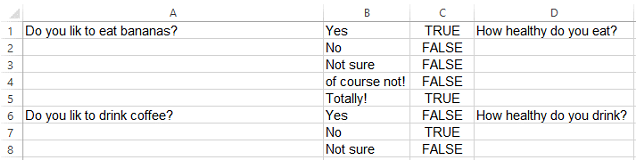
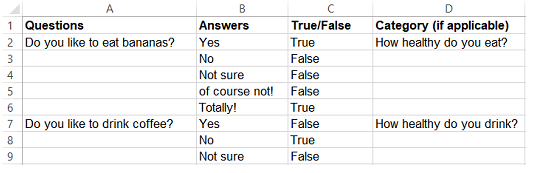
fixed bugs

Changed region(s): [[0.0, 0.0301, 1.0, 0.9639], [0.03, 0.0301, 0.0599, 0.0602]]

diff --git a/Frontend/src/pages/Testee/MyTest/components/AllSteps/QuestionStep.js b/Frontend/src/pages/Testee/MyTest/components/AllSteps/QuestionStep.js
@@ -397,25 +397,32 @@ function QuestionStep(props) {
         const worksheet = workbook.Sheets[sheetName];
         const xlData = XLSX.utils.sheet_to_json(worksheet, { header: 1 });
         xlData.forEach((row, index) => {
-          if (row[0]  && row[1] && row[2] && row[3]) {
-            questionCounter++;
-            props.obj.mainObjectAdder({ target: { id: `question${questionCounter}`, value: row[0] } }, "questions", `question${questionCounter}`, 'question');
-            props.obj.mainObjectAdder({ target: { id: `question${questionCounter}`, value: row[3] } }, "questions", `question${questionCounter}`, 'categoryName');
-            props.obj.mainObjectAdder({ target: { id: `question${questionCounter}-answer${answerCounter}`, value: row[1] } }, "questions", `question${questionCounter}-answer${answerCounter}`, 'answer');
-            props.obj.mainObjectAdder({ target: { id: `question${questionCounter}-answer${answerCounter}`, value: row[2] == true ? 10 : 0 } }, "questions", `question${questionCounter}-answer${answerCounter}`, 'point');
-            answerCounter++;
-          }
-          else if (row[0] == undefined && row[1] && row[2] && row[3]) {
-          
-            props.obj.mainObjectAdder({ target: { id: `question${questionCounter}-answer${answerCounter}`, value: row[1] } }, "questions", `question${questionCounter}-answer${answerCounter}`, 'answer');
-            props.obj.mainObjectAdder({ target: { id: `question${questionCounter}-answer${answerCounter}`, value: row[2] == true ? 10 : 0 } }, "questions", `question${questionCounter}-answer${answerCounter}`, 'point');
-            answerCounter++;
-          }
-          else{
-            showToastMessage("Invalid Excel Format", "red", 2);
+          // console.log(!!(row[0] && row[1] && row[2] && row[3]));
+          // console.log(row[0], row[1], row[2], row[3]);
+          // console.log(row[0] == undefined && row[1] && row[2  ] && row[3]);
+          if (row[2]?.toLowerCase() == 'true' || row[2]?.toLowerCase() == 'false') {
+            if (!!(row[0] && row[1] && row[2] && row[3])) {
+              console.log('row', row);
+              questionCounter++;
+              props.obj.mainObjectAdder({ target: { id: `question${questionCounter}`, value: row[0] } }, "questions", `question${questionCounter}`, 'question');
+              props.obj.mainObjectAdder({ target: { id: `question${questionCounter}`, value: row[3] } }, "questions", `question${questionCounter}`, 'categoryName');
+              props.obj.mainObjectAdder({ target: { id: `question${questionCounter}-answer${answerCounter}`, value: row[1] } }, "questions", `question${questionCounter}-answer${answerCounter}`, 'answer');
+              props.obj.mainObjectAdder({ target: { id: `question${questionCounter}-answer${answerCounter}`, value: row[2]?.toLowerCase() == 'true' ? 10 : 0 } }, "questions", `question${questionCounter}-answer${answerCounter}`, 'point');
+              answerCounter++;
+            }
+            else if (!!(row[0] == undefined && row[1] && (row[2]?.toLowerCase() == 'true' || row[2]?.toLowerCase() == 'false'))) {
+              console.log('ans row', row);
+              props.obj.mainObjectAdder({ target: { id: `question${questionCounter}-answer${answerCounter}`, value: row[1] } }, "questions", `question${questionCounter}-answer${answerCounter}`, 'answer');
+              props.obj.mainObjectAdder({ target: { id: `question${questionCounter}-answer${answerCounter}`, value: row[2]?.toLowerCase() == 'true' ? 10 : 0 } }, "questions", `question${questionCounter}-answer${answerCounter}`, 'point');
+              answerCounter++;
+            }
+            else {
+              showToastMessage("Invalid Excel Format", "red", 2);
+            }
           }
         });
       } catch (error) {
+        console.log(error);
         showToastMessage("Error reading the Excel file", "red", 2);
       }
     };
@@ -1062,21 +1069,21 @@ function QuestionStep(props) {
             {
               showExampleModal &&
               <Modal show={showExampleModal} onHide={handleCloseExampleModal} animation={false}>
-              <Modal.Header closeButton>
-                <Modal.Title>Import Mailing List</Modal.Title>
-              </Modal.Header>
-              <Modal.Body>
-                <label htmlFor={`question${questionCounter}`}>Supported File Structure:</label>
-                <img src='/ques.png' alt='question structure' />
-                <input
-                  type="file"
-                  id={`question${questionCounter}`}
-                  onChange={(e) => {
-                    setSelectedFile(e.target.files[0]);
-                  }}
-                />
-                <button style={{ position: 'relative', right: '20px' }} onClick={handleUpload} disabled={selectedFile == null}>Upload Questions from excel</button>
-              </Modal.Body>
+                <Modal.Header closeButton>
+                  <Modal.Title>Import Mailing List</Modal.Title>
+                </Modal.Header>
+                <Modal.Body>
+                  <label htmlFor={`question${questionCounter}`}>Supported File Structure:</label>
+                  <img src='/ques.png' alt='question structure' />
+                  <input
+                    type="file"
+                    id={`question${questionCounter}`}
+                    onChange={(e) => {
+                      setSelectedFile(e.target.files[0]);
+                    }}
+                  />
+                  <button style={{ position: 'relative', right: '20px' }} onClick={handleUpload} disabled={selectedFile == null}>Upload Questions from excel</button>
+                </Modal.Body>
               </Modal>
             }
             <button onClick={() => setShowExampleModal(true)}>Import Questions from excel</button>

diff --git a/Frontend/src/pages/user/updateUser.js b/Frontend/src/pages/user/updateUser.js
@@ -58,34 +58,34 @@ function UpdateUser() {
         <div class="Get_sec" style={{ height: '100vh' }}>
             <h1>User Profile</h1>
             <div class="container">
-                <div class="row gutters">
-                    <div class="col-xl-12 col-lg-12 col-md-12 col-sm-12 col-12">
-                        <div class="card h-100">
+                <div class="row gutters justify-content-center align-items-center">
+                    <div class="col-xl-6 col-lg-6 col-md-6 col-sm-6 col-6">
+                        <div class="card h-100 justify-content-center align-items-center">
                             <div class="card-body">
                                 <div class="row gutters">
-                                    <div class="col-xl-12 col-lg-12 col-md-12 col-sm-12 col-12">
-                                        <h6 class="mb-2 text-primary">Personal Details</h6>
+                                    <div class="col-xl-12 col-lg-12 col-md-12 col-sm-12 col-12 my-2">
+                                        <h3 class="mb-2 text-primary">Personal Details</h3>
                                     </div>
                                     <div class="col-xl-6 col-lg-6 col-md-6 col-sm-6 col-12">
-                                        <div class="form-group">
+                                        <div class="form-group my-2">
                                             <label for="fullName">Full Name</label>
                                             <input type="text" class="form-control" id="fullName" placeholder="Enter full name" value={userData.firstName} onChange={(e) => { setUserData({ ...userData, firstName: e.target.value }); setUpdateData(true) }} />
                                         </div>
                                     </div>
                                     <div class="col-xl-6 col-lg-6 col-md-6 col-sm-6 col-12">
-                                        <div class="form-group">
+                                        <div class="form-group my-2">
                                             <label for="fullName">Company Name</label>
                                             <input type="text" class="form-control" id="fullName" placeholder="Enter Company Name" value={userData.lastName} onChange={(e) => { setUserData({ ...userData, lastName: e.target.value }); setUpdateData(true) }} />
                                         </div>
                                     </div>
                                     <div class="col-xl-6 col-lg-6 col-md-6 col-sm-6 col-12">
-                                        <div class="form-group">
+                                        <div class="form-group my-2">
                                             <label for="eMail">Email</label>
                                             <input type="email" class="form-control" id="email" placeholder="Enter email ID" value={userData.email} onChange={(e) => { setUserData({ ...userData, email: e.target.value }); setUpdateData(true) }} />
                                         </div>
                                     </div>
                                     <div class="col-xl-6 col-lg-6 col-md-6 col-sm-6 col-12">
-                                        <div class="form-group">
+                                        <div class="form-group my-2">
                                             <label for="phone">Phone</label>
                                             <input type="text" class="form-control" id="phone" placeholder="Enter phone number" value={userData.phoneNumber} onChange={(e) => { setUserData({ ...userData, phoneNumber: e.target.value }); setUpdateData(true) }} />
                                         </div>

diff --git a/Frontend/src/pages/dashboard/dashboard.js b/Frontend/src/pages/dashboard/dashboard.js
@@ -64,52 +64,53 @@ function Dashboard(params) {
     <div className="wrapper">
       <SideBar />
       <div id="content">
-        <Grid container>
-          <Grid item xs={6}>
+        {/* add frame to container and smaller */}
+        <Grid container >
+          <Grid item xs={8}>
             <Typography variant="h4" style={{ color: '#000', fontWeight: 'bold' }}>Welcome, {user.firstName}</Typography>
           </Grid>
-          <Grid item xs={6} display={'flex'} justifyContent={'flex-end'}>
+          <Grid item xs={4} display={'flex'} justifyContent={'flex-end'} border={1} borderRadius={5} style={{ padding: '10px' }}>
             {packageData?.payment ?
               <Grid container display={'flex'} justifyContent={'flex-end'}>
                 <Grid item xs={6}
-                  style={{ textAlign: 'right' }}>
+                  style={{ textAlign: 'center' }}>
                   <h6 id="6">My package: {packageData.package.packageName} </h6>
                 </Grid>
                 <Grid item xs={6}>
                   <h6 id="6"
-                    style={{ textAlign: 'right' }}
+                    style={{ textAlign: 'center' }}
                   >Sent Tests: {packageData.package.numberOfTests - packageData.payment.RemainingNumberOfTests} </h6>
                 </Grid>
                 <Grid item xs={6}>
                   <h6 id="6"
-                    style={{ textAlign: 'right' }}
+                    style={{ textAlign: 'center' }}
                   >Remaining tests: {packageData.payment.RemainingNumberOfTests} </h6>
                 </Grid>
                 <Grid item xs={6}>
                   <h6 id="6"
-                    style={{ textAlign: 'right' }}
+                    style={{ textAlign: 'center' }}
                   >Expiry date: {new Date(packageData.payment.expireDate).toDateString()} </h6>
                 </Grid>
               </Grid> :
               <Grid container display={'flex'} justifyContent={'flex-end'}>
                 <Grid item xs={6} >
                   <h6 id="6"
-                    style={{ textAlign: 'right' }}
+                    style={{ textAlign: 'center' }}
                   >My package: {'None'} </h6>
                 </Grid>
                 <Grid item xs={6}>
                   <h6 id="6"
-                    style={{ textAlign: 'right' }}
+                    style={{ textAlign: 'center' }}
                   >Sent Tests: 0 </h6>
                 </Grid>
                 <Grid item xs={6}>
                   <h6 id="6"
-                    style={{ textAlign: 'right' }}
+                    style={{ textAlign: 'center' }}
                   >Remaining tests: 0 </h6>
                 </Grid>
                 <Grid item xs={6}>
                   <h6 id="6"
-                    style={{ textAlign: 'right' }}
+                    style={{ textAlign: 'center' }}
                   >Expiry date: N/A </h6>
                 </Grid>
               </Grid>

diff --git a/Frontend/src/pages/user/changePassword.jsx b/Frontend/src/pages/user/changePassword.jsx
@@ -7,6 +7,7 @@ import { toast } from 'react-toastify';
 const ChangePassword = () => {
     const [newPassword, setNewPassword] = useState('');
     const [confirmPassword, setConfirmPassword] = useState('');
+    const [oldPassword, setOldPassword] = useState('');
 
     const handleSubmit = (e) => {
         e.preventDefault();
@@ -68,6 +69,10 @@ const ChangePassword = () => {
                 <div class="card-body">
                     <form class="form" role="form" autocomplete="off">
                         <div class="form-group">
+                            <label for="inputPasswordOld">Old Password</label>
+                            <input type="password" class="form-control" id="inputPasswordOld" onChange={(e) => setOldPassword(e.target.value)} required="" value={oldPassword} />
+                        </div>
+                        <div class="form-group">
                             <label for="inputPasswordNew">New Password</label>
                             <input type="password" class="form-control" id="inputPasswordNew" onChange={(e) => setNewPassword(e.target.value)} required="" value={newPassword} />
                             <span class="form-text small text-muted">
@@ -83,7 +88,7 @@ const ChangePassword = () => {
                         </div>
                         <div class="form-group">
                             <button type="submit" disabled={newPassword === '' || confirmPassword === ''} onClick={handleSubmit}
-                             class="btn btn-success btn-lg float-right">Save</button>
+                                class="btn btn-success btn-lg float-right">Save</button>
                         </div>
                     </form>
                 </div>

diff --git a/Frontend/src/pages/listings/addUserInListing.js b/Frontend/src/pages/listings/addUserInListing.js
@@ -431,8 +431,8 @@ function AddUserInList() {
             }
             else if (selectedOption === "combined") {
               if (res[1].indexOf("@") === -1) {
-                showToastMessage("Invalid email address", "red", 2);
-                return;
+                // showToastMessage("Invalid email address", "red", 2);
+                continue;
               }
               else {
                 try {
@@ -452,8 +452,8 @@ function AddUserInList() {
             }
             else if (selectedOption === "separate") {
               if (res[2].indexOf("@") === -1) {
-                showToastMessage("Invalid email address", "red", 2);
-                return;
+                // showToastMessage("Invalid email address", "red", 2);
+                continue;
               }
               else {
                 try {
